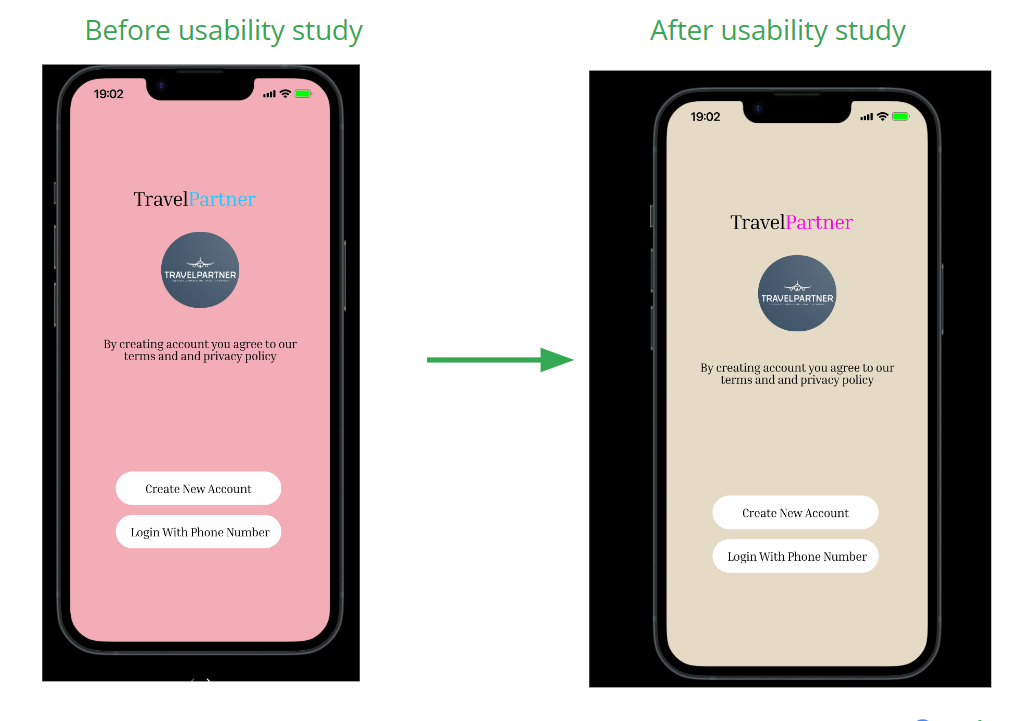
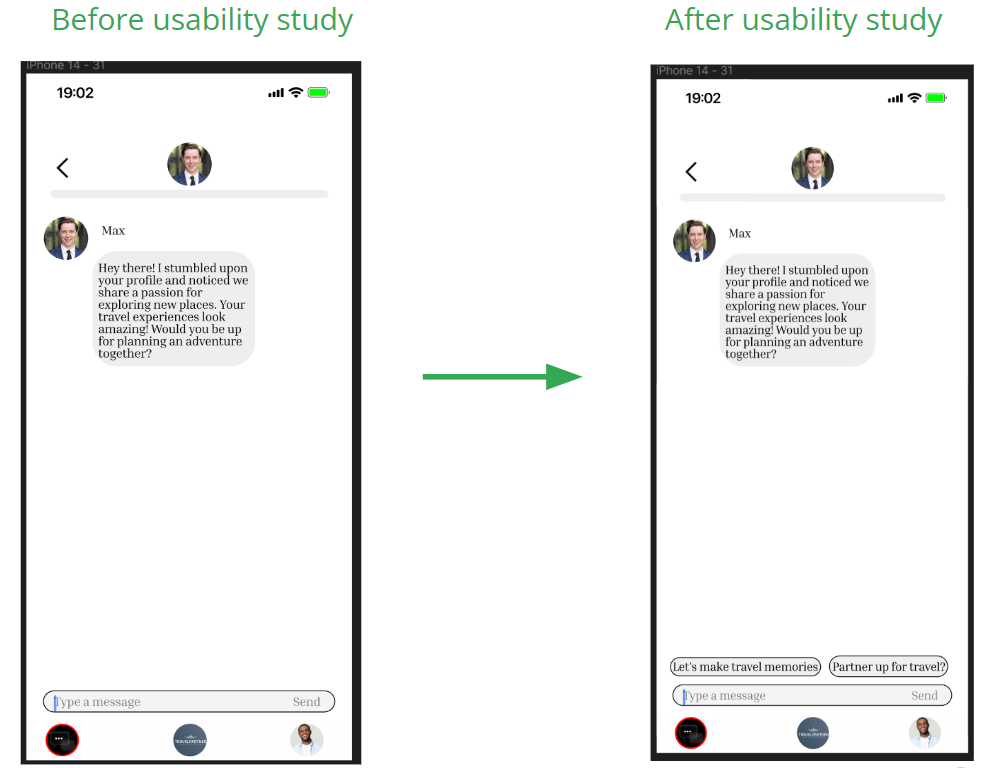
new pages

diff --git a/Construction.html b/Construction.html
@@ -23,9 +23,9 @@
           />
         </div>
         <ul>
-          <li><a href="../../portfolio/Home.html">Home</a></li>
-          <li><a href="../../portfolio/index.html">Work</a></li>
-          <li><a href="../../portfolio/Blog.html">About Me</a></li>
+          <li><a href="Home.html">Home</a></li>
+          <li><a href="index.html">Work</a></li>
+          <li><a href="Blog.html">About Me</a></li>
         </ul>
       </nav>
       <title>Under Construction</title>
@@ -69,7 +69,7 @@
     <p>Stay tuned for amazing projects and insights.</p>
     <p>
       Feel free to
-      <a class="contact-link" href="../../portfolio/index.html">contact me</a>
+      <a class="contact-link" href="Home.html">contact me</a>
       for inquiries.
     </p>
   </body>

diff --git a/Robot.html b/Robot.html
@@ -23,9 +23,9 @@
           />
         </div>
         <ul>
-          <li><a href="../../portfolio/Home.html">Home</a></li>
-          <li><a href="../../portfolio/index.html">Work</a></li>
-          <li><a href="../../portfolio/Blog.html">About Me</a></li>
+          <li><a href="Home.html">Home</a></li>
+          <li><a href="index.html">Work</a></li>
+          <li><a href="Blog.html">About Me</a></li>
         </ul>
       </nav>
       <title>Under Construction</title>
@@ -69,7 +69,7 @@
     <p>Stay tuned for amazing projects and insights.</p>
     <p>
       Feel free to
-      <a class="contact-link" href="../../portfolio/index.html">contact me</a>
+      <a class="contact-link" href="Home.html">contact me</a>
       for inquiries.
     </p>
   </body>

diff --git a/Traveling.html b/Traveling.html
@@ -374,6 +374,18 @@
           "
         />
         <p>
+          users desire pre-text to initiate communication with new matches. To solve this, we suggest adding a conversation starter to the pretext. This aids quick decisions and fosters engaging interactions.
+        </p>
+        <img
+          src="Travel_Partner_Usability_Test.png"
+          style="
+            width: 100%;
+            max-width: 600px;
+            display: block;
+            margin: 20px auto;
+          "
+        />
+        <p>
           The ideation process was a crucial phase in ensuring that the travel
           partner app design effectively addressed users' needs and pain points,
           resulting in a solution that aims to provide a seamless and enjoyable
